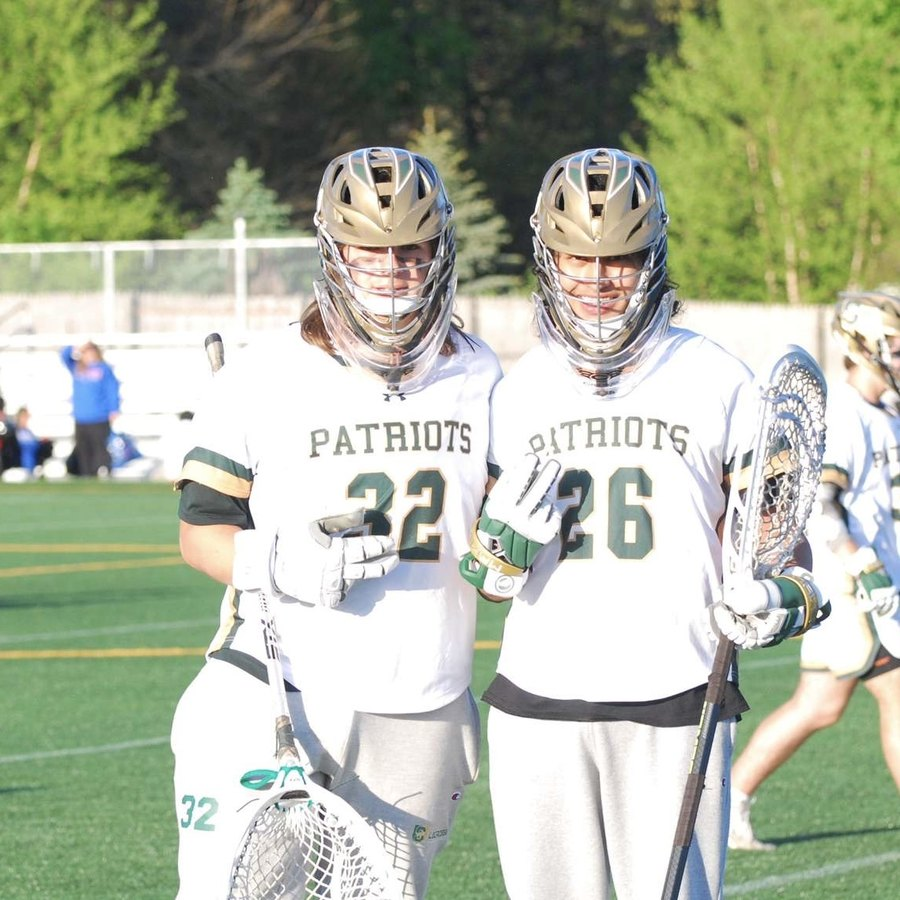
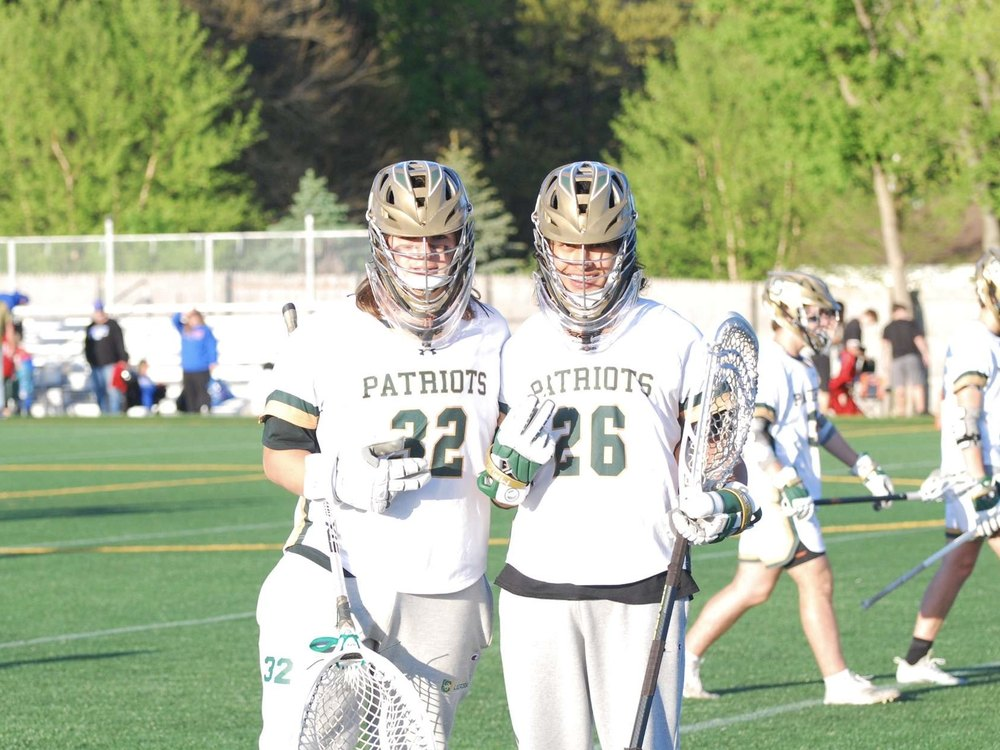
Swap the mountain photo for two group shots
The About strip is now three 4:3 photos instead of two squares. The
ballgame photo is natively 4:3, so switching the strip aspect keeps
everyone in frame rather than cropping a friend out.

diff --git a/index.html b/index.html
@@ -80,12 +80,16 @@
 
     <ul class="photo-strip">
       <li>
-        <img src="photo-lacrosse.jpg" width="900" height="900" loading="lazy"
+        <img src="photo-lacrosse.jpg" width="1000" height="750" loading="lazy"
              alt="Shash on the field with a teammate during a lacrosse game">
       </li>
       <li>
-        <img src="photo-mountains.jpg" width="900" height="900" loading="lazy"
-             alt="Shash hiking on a snowy mountain trail">
+        <img src="photo-ballgame.jpg" width="1000" height="750" loading="lazy"
+             alt="Shash with friends in the stands at a baseball game">
+      </li>
+      <li>
+        <img src="photo-garage.jpg" width="1000" height="750" loading="lazy"
+             alt="Shash with friends sitting on an ATV in a garage">
       </li>
     </ul>
   </section>

diff --git a/styles.css b/styles.css
@@ -194,19 +194,18 @@ a:hover { color: var(--accent-dk); }
 
 .photo-strip {
   display: grid;
-  grid-template-columns: repeat(2, 1fr);
-  gap: .75rem;
+  grid-template-columns: repeat(3, 1fr);
+  gap: .6rem;
   list-style: none;
   margin: 1.75rem 0 0;
   padding: 0;
-  max-width: 30rem;
 }
 
 .photo-strip img {
   display: block;
   width: 100%;
   height: auto;
-  aspect-ratio: 1;
+  aspect-ratio: 4 / 3;
   object-fit: cover;
   border-radius: var(--radius);
   border: 1px solid var(--border);
